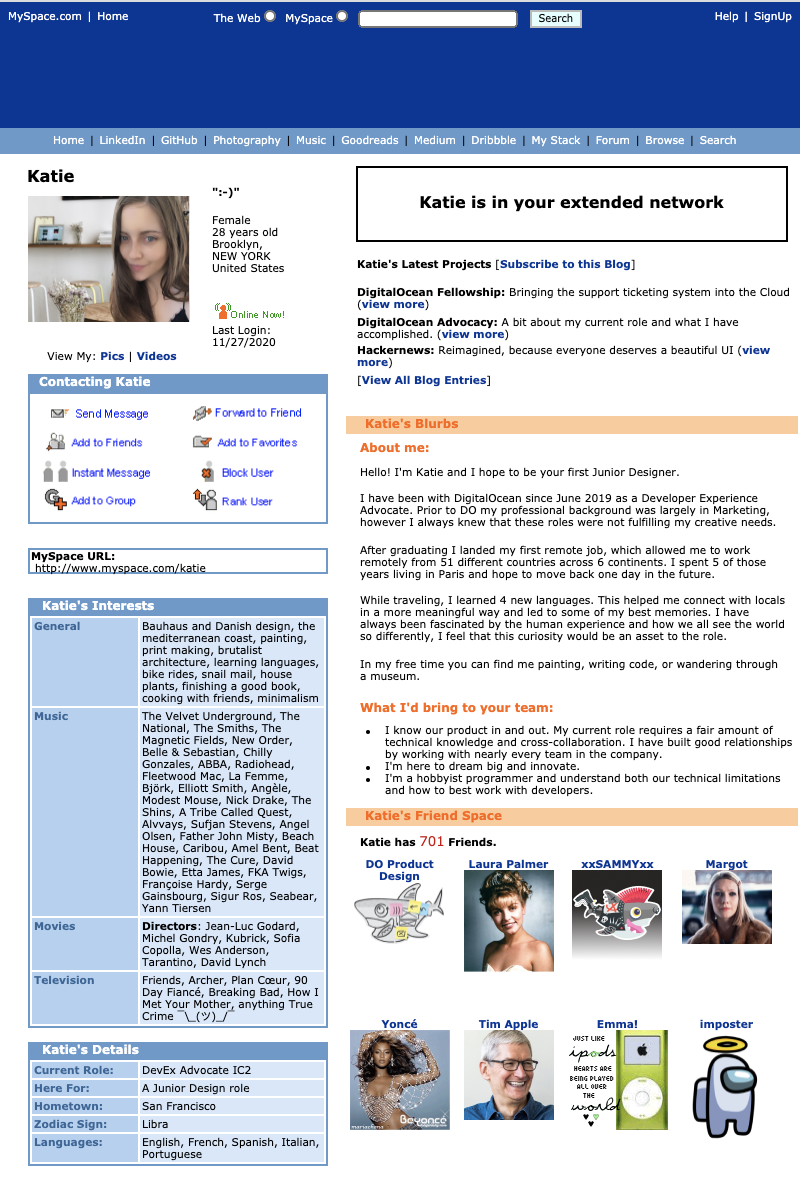
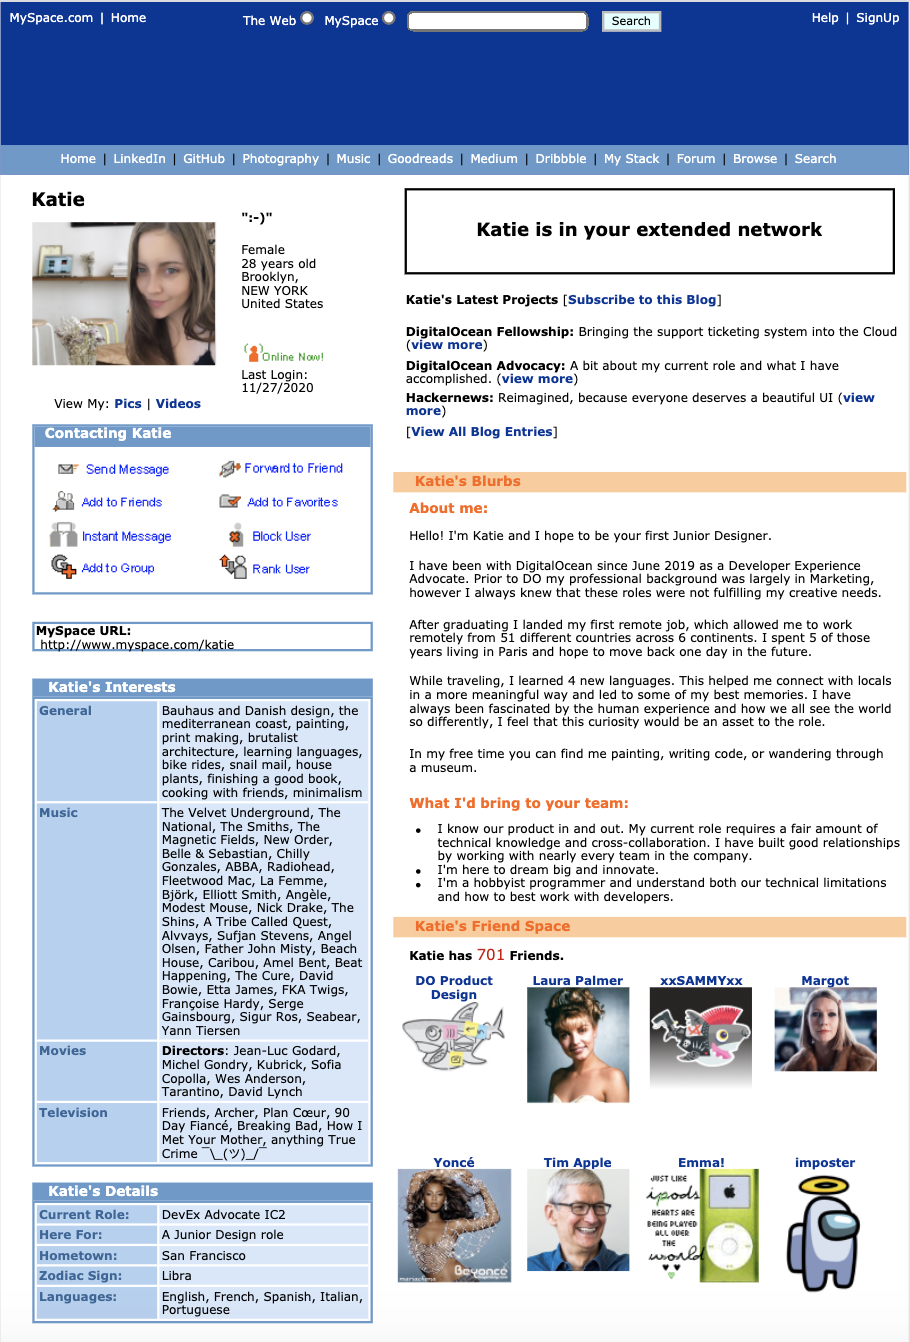
updates

diff --git a/content/portfolio/Myspace.md b/content/portfolio/Myspace.md
@@ -10,15 +10,15 @@ weight = 4
 A vintage Myspace twist on a traditional job application.
 <!--more-->
 ---
-In 2020 I was applying for an internal role and needed a way to showcase my work. I was already very familiar with everyone on the team and thought they would also find this retro throwback to be fun.
+In 2020 while applying for an internal role, I needed a unique way to showcase my work. I was already very familiar with everyone on the team and knew they would also find this retro throwback to be fun.
 
 I created this static Myspace page (era 2004) using Hugo, CSS and HTML and hosted it on DigitalOcean's AppPlatform. This was a fun project because it allowed the team to learn more about me, as well as highlight some of the internal projects I had recently worked on.
 
 This project really brought back memories! Some of the HTML snippets (such as the "online" status) were sourced from old Myspace Layout sites.
 
-![myspace](/portfolio/images/myspaceapp.png)
-
 You can find the GitHub repo here: https://github.com/kplsn/ux
 
-
 Website: https://ux-quvlf.ondigitalocean.app/
+
+![myspace](/portfolio/images/myspaceapp.png)
+![myspace2](/portfolio/images/myspaceapp2.png)

diff --git a/content/portfolio/DigitalOcean.md b/content/portfolio/DigitalOcean.md
@@ -2,7 +2,7 @@
 date = "2016-11-04T19:41:01+05:30"
 title = "Case Study: DigitalOcean"
 draft = false
-image = "/portfolio/images/favicon.png"
+image = "/portfolio/images/docasestudy.png"
 showonlyimage = false
 weight = 1
 +++
